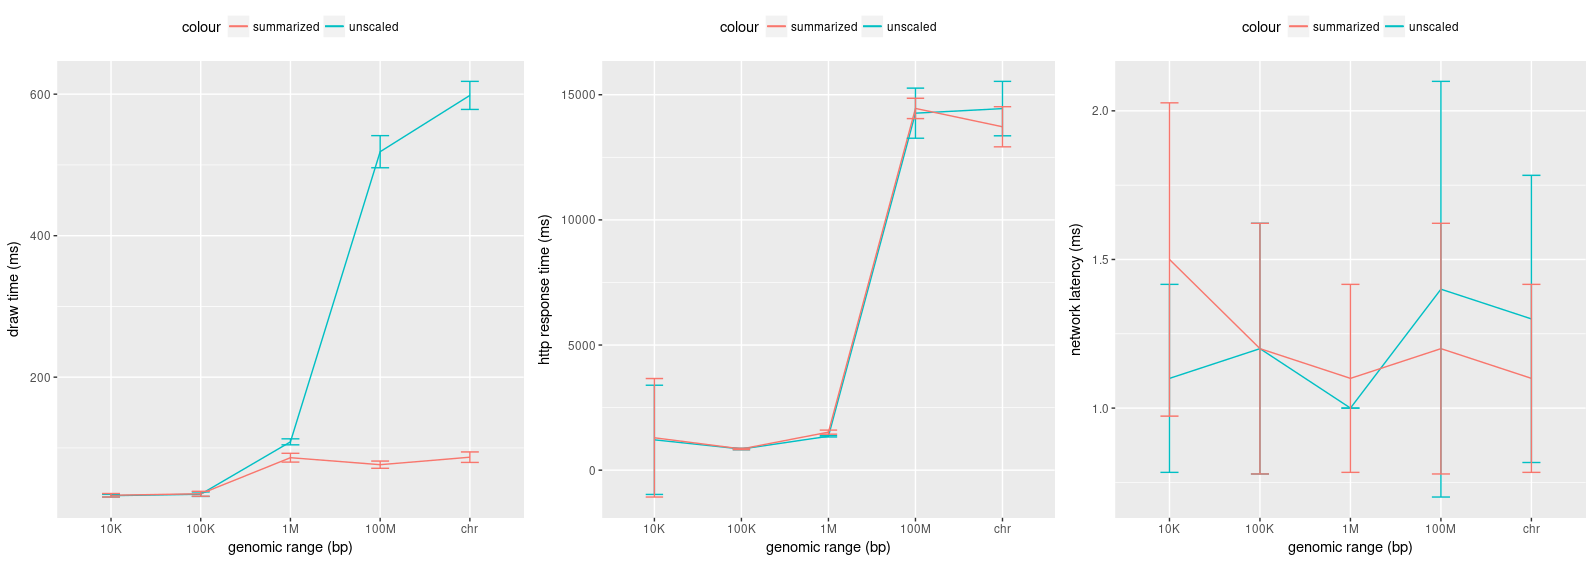
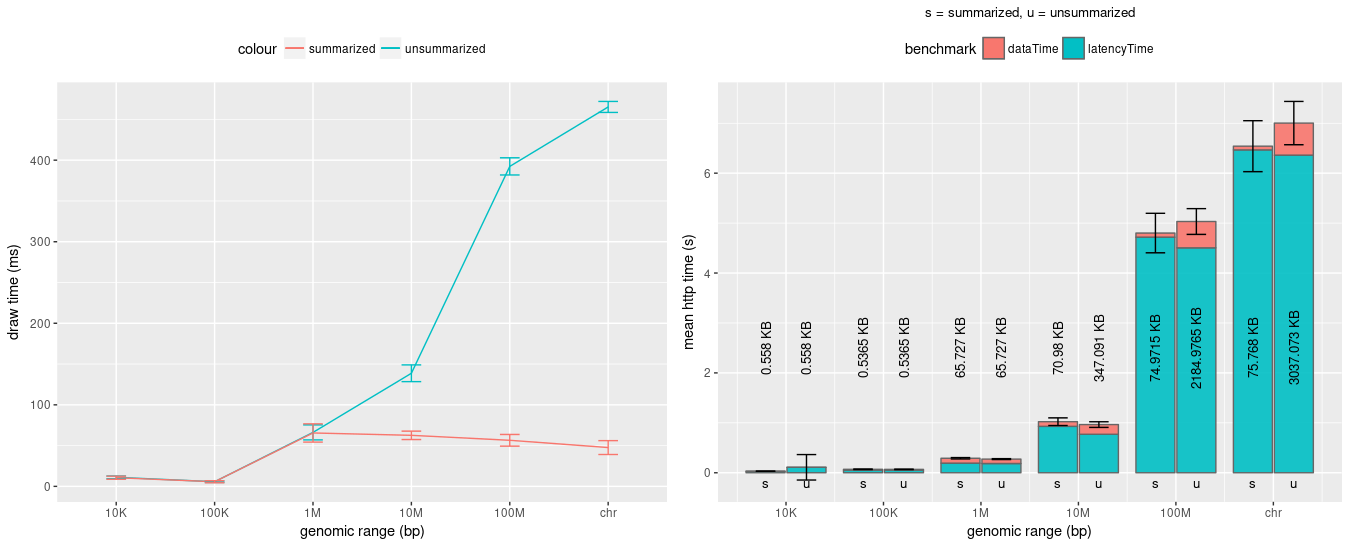
update benchmarks to include 10M bp

diff --git a/performance/tests/test-bp-10M.html b/performance/tests/test-bp-10M.html
@@ -9,19 +9,8 @@
   <link rel="stylesheet" href="//code.jquery.com/ui/1.12.1/themes/base/jquery-ui.css">
   <script src="https://code.jquery.com/jquery-1.12.4.js" integrity="sha256-Qw82+bXyGq6MydymqBxNPYTaUXXq7c8v3CwiYwLLNXU=" crossorigin="anonymous"></script>
   <script src="https://code.jquery.com/ui/1.12.1/jquery-ui.js"></script>
-  <link rel="import" href="../../dist/epiviz-charts-test.html">
+  <link rel="import" href="../../epiviz-charts.html">
 </head>
-<style>
-  .draggable {
-    width: 90px;
-    height: 80px;
-    padding: 5px;
-    float: left;
-    margin: 0 10px 10px 0;
-    font-size: .9em;
-    border: 1px solid black;
-  }
-</style>
 
 <body>
   <h3>epiviz-environment Demo</h3>
@@ -29,12 +18,12 @@
   <epiviz-data-source provider-type="epiviz.data.WebServerDataProvider" provider-id="umd" provider-url="http://epiviz-dev.cbcb.umd.edu/api/">
   </epiviz-data-source>
 
-  <epiviz-environment chr="chr11" start=99800000 end=106738318 no-logo measurements='{"affy1":{
+  <epiviz-environment chr="chr11" start=1 end=10000000 no-logo measurements='{"mcoef-cancer":{
                     "id":"cancer",
-                    "name":"Expression Colon Cancer",
+                    "name":"methylation coef Cancer",
                     "type":"feature",
-                    "datasourceId":"gene_expression",
-                    "datasourceGroup":"affymetrix_probeset",
+                    "datasourceId":"methylation_coef_small",
+                    "datasourceGroup":"methylation_coef_small",
                     "dataprovider":"umd",
                     "formula":null,
                     "defaultChartType":null,
@@ -43,12 +32,12 @@
                     "maxValue":20,
                     "metadata":["probe"]
                 },
-                "affy2":{
+                "mcoef-normal":{
                     "id":"normal",
-                    "name":"Expression Colon Normal",
+                    "name":"methylation coef Normal",
                     "type":"feature",
-                    "datasourceId":"gene_expression",
-                    "datasourceGroup":"affymetrix_probeset",
+                    "datasourceId":"methylation_coef_small",
+                    "datasourceGroup":"methylation_coef_small",
                     "dataprovider":"umd",
                     "formula":null,
                     "defaultChartType":null,
@@ -72,7 +61,7 @@
                     "metadata": ["gene", "entrez", "exon_starts", "exon_ends"]
                 }
               }'>
-    <epiviz-scatter-plot slot="charts" dim-s='["affy1", "affy2"]'></epiviz-scatter-plot>
+    <epiviz-scatter-plot slot="charts" dim-s='["mcoef-cancer", "mcoef-normal"]'></epiviz-scatter-plot>
   </epiviz-environment>
 </body>
 

diff --git a/performance/benchmarks-bp-scaled.js b/performance/benchmarks-bp-scaled.js
@@ -158,6 +158,17 @@ async function multiple_run_benchmark(html, nruns, file_path) {
       ","
   );
   console.log(
+    ' "10M": ' +
+      JSON.stringify(
+        await multiple_run_benchmark(
+          "http://localhost:8081/components/epiviz-charts/performance/tests/test-bp-10M.html",
+          10,
+          "./screenshots/test10M"
+        )
+      ) +
+      ","
+  );
+  console.log(
     ' "100M": ' +
       JSON.stringify(
         await multiple_run_benchmark(

diff --git a/performance/benchmarks-bp.js b/performance/benchmarks-bp.js
@@ -153,6 +153,17 @@ async function multiple_run_benchmark(html, nruns, file_path) {
       ","
   );
   console.log(
+    ' "10M": ' +
+      JSON.stringify(
+        await multiple_run_benchmark(
+          "http://localhost:8081/components/epiviz-charts/performance/tests/test-bp-10M.html",
+          10,
+          "./screenshots/test10M"
+        )
+      ) +
+      ","
+  );
+  console.log(
     ' "100M": ' +
       JSON.stringify(
         await multiple_run_benchmark(
